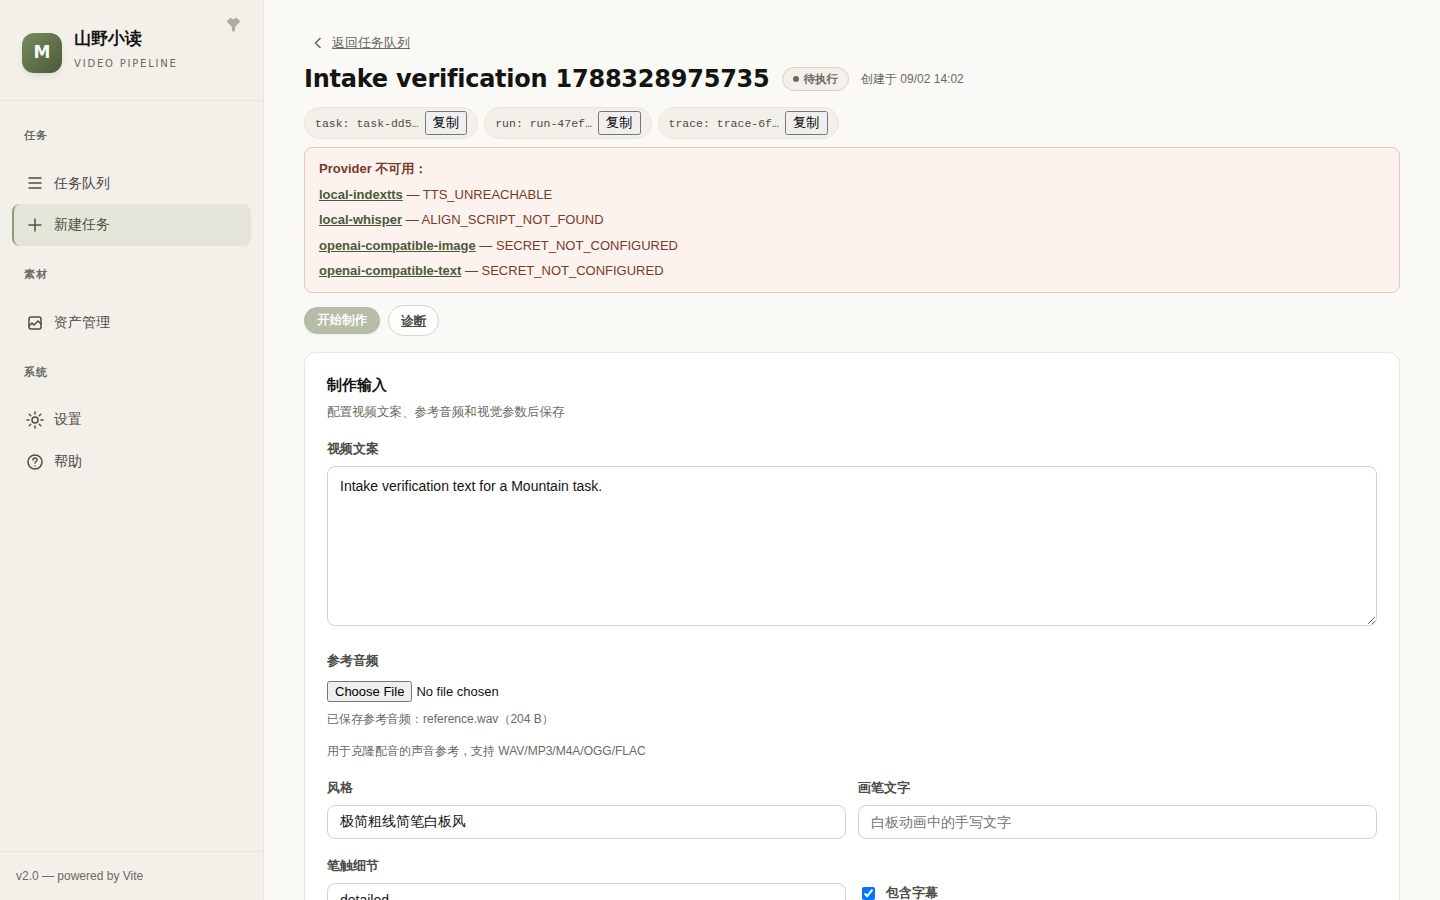
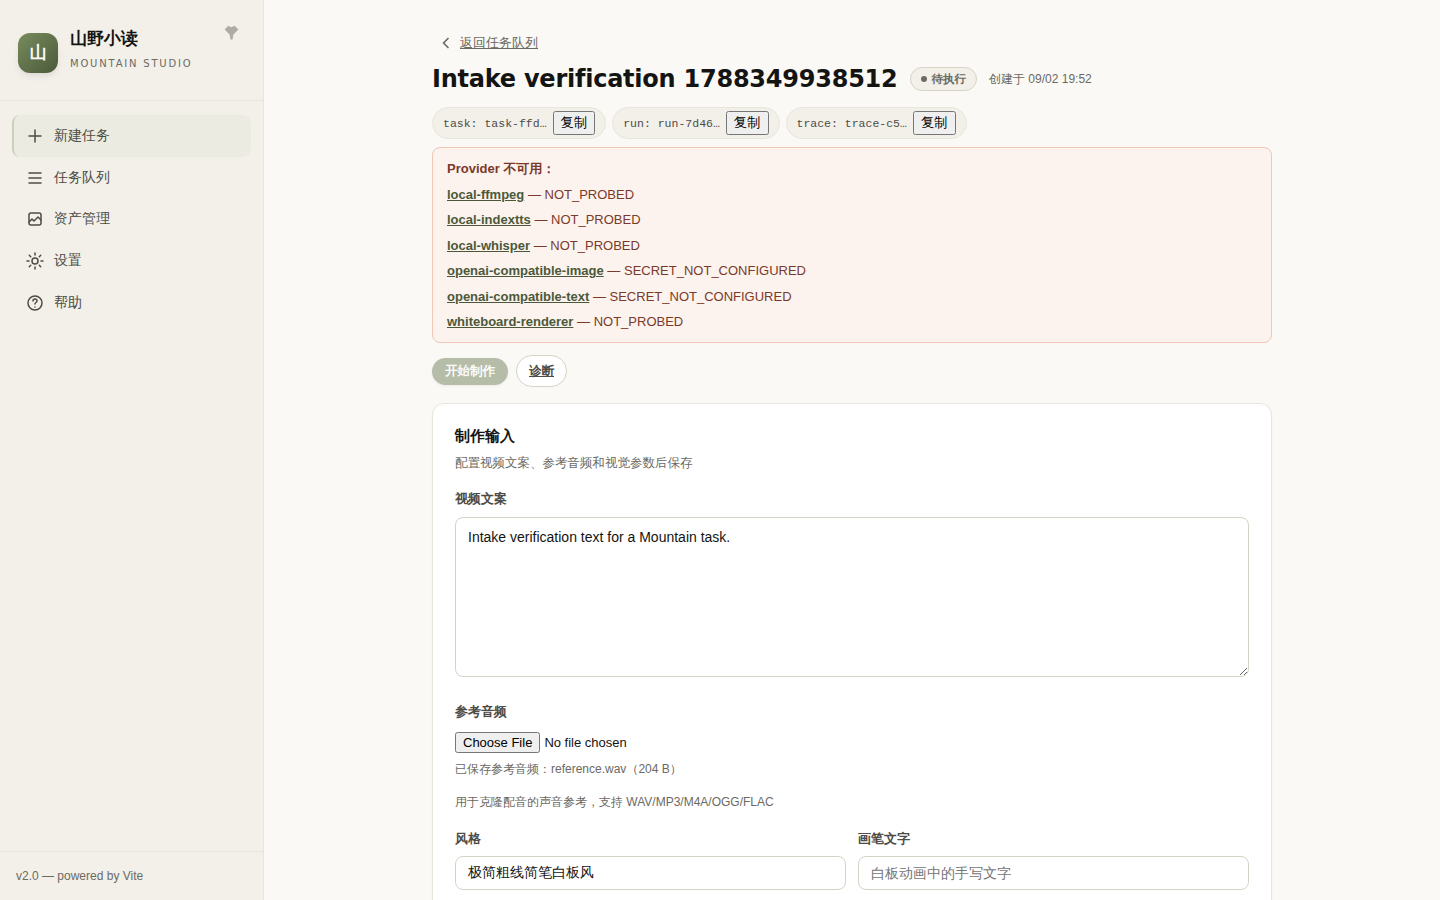
docs(web): deliver WEB-WO-003 browser evidence

diff --git a/docs/agents/reports/WEB-WO-003.md b/docs/agents/reports/WEB-WO-003.md
@@ -1,39 +1,50 @@
 # WEB-WO-003 Worker Report
 
 - Contract: `docs/agents/tasks/WEB-WO-003.md`
-- Coordination commit: `26d1c18f7db313b225331d84a7c2089fb65a3e4c`
-- Base: `9db741f`
-- Implementation commit: `efb656cdfa695af48ee2af7baa5a2f11bd6d79f4`
+- Coordination commit: `93b493836e897a14f0a13dd6848dfc4906086a85`
+- Base: `9db741fb5b230603b1cf340bc3e75b31bee31c4d`
+- Attempt 2 scope: repair and verify the real browser Task creation flow; no product-code change was required.
 - Branch: `feat/mountain-webui-surface-parity`
 
 ## Delivered
 
-The Task Workbench now consumes the persisted execution-plan DTO, submits `auto/selective` and canonical manual-stage selections with input saves, and exposes all six stages' read-only Work Order summaries through the real API adapter. The summary shows identity-level status, revision/fingerprint, next action, safe artifact summaries, expected outputs, and relative file references. It does not render command argv, prompts/scripts, secrets, absolute paths, or raw backend fields. No backend, import/accept semantics, or mock business data were changed.
+The existing Work Order surface remains unchanged and satisfies the approved API/DTO boundary. The real browser flow now has passing evidence when run with the required isolated setup: Vite uses the `/api/v1` proxy on backend port 8000, one Task is created, inputs are saved, and the Task Workbench restores the saved inputs. No mock business data, backend code, import/accept semantics, or orchestration was added.
 
-Files:
+Changed delivery files:
 
-- `web-v2/src/lib/api/client.ts`
-- `web-v2/src/lib/api/types.ts`
-- `web-v2/src/pages/TaskWorkbenchPage.tsx`
-- `web-v2/tests/work-order.test.tsx`
+- `docs/agents/reports/WEB-WO-003.md`
+- `docs/Mountain/webui-parity-evidence/tasks/intake-created.png`
+- `docs/Mountain/webui-parity-evidence/tasks/intake-queue.png`
+- `docs/Mountain/webui-parity-evidence/tasks/intake-workbench.png`
+- `docs/Mountain/webui-parity-evidence/tasks/intake-manifest.json`
 
 ## Gates
 
+Every required gate exited normally with status 0:
+
 | Command | Result |
 | --- | --- |
-| `npm --prefix web-v2 run build` | pass; TypeScript and Vite build |
+| `npm --prefix web-v2 run build` | pass; TypeScript and Vite build, 68 modules |
 | `npm --prefix web-v2 test -- --run` | pass; 17 files, 351 tests |
 | `npm --prefix web-v2 run test:contract-checker` | pass; 2 files, 50 tests |
-| `env -u CSBOARD_ALLOW_PLAINTEXT_SECRETS /mnt/d/workstation/projects/cs-board/.venv/bin/python scripts/smoke_real_backend_contract.py --port 8765` | exit 0; real backend, production checker, API smoke, process/temp cleanup passed |
+| `env -u CSBOARD_ALLOW_PLAINTEXT_SECRETS /mnt/d/workstation/projects/cs-board/.venv/bin/python scripts/smoke_real_backend_contract.py --port 8765` | pass; encrypted real backend, production checker, API smoke, process/temp cleanup |
 | `npm --prefix web-v2 test -- --run tests/work-order.test.tsx` | pass; 2 tests |
-| `if rg -n 'Project|project_id|/projects' web-v2/src web-v2/scripts; then exit 1; else echo 'forbidden-pattern scan: no matches'; fi` | exit 0; no matches |
+| `if rg -n 'Project|project_id|/projects' web-v2/src web-v2/scripts; then exit 1; else echo 'forbidden-pattern scan: no matches'; fi` | pass; no matches |
 | `git diff --check` | pass |
+| `PLAYWRIGHT_CHROMIUM_EXECUTABLE=/home/ubuntu/.cache/ms-playwright/chromium-1187/chrome-linux/chrome WEBUI_BASE=http://127.0.0.1:5275 MOUNTAIN_API_BASE=http://127.0.0.1:8000 node web-v2/scripts/verify-task-intake-e2e.mjs` | pass; one Task, input readback and Workbench restoration passed, zero browser issues |
 
-The real checker used a temporary backend data directory and port 8765; the backend was stopped after the gate. An isolated browser attempt using `web-v2/scripts/verify-task-intake-e2e.mjs` exited 1 because its existing response waiter timed out after the POST `/tasks` request (`Failed to fetch` alert); no browser pass is claimed from that attempt. No dashboard/teamctl command was run.
+The browser gate used isolated temporary backend data, `VITE_API_BASE_URL=/api/v1`, Vite `127.0.0.1:5275`, and backend `127.0.0.1:8000`; both exact PIDs were stopped afterward. No `/start`, `/pipeline/`, or stage run/retry request occurred.
 
-## Evidence and state
+## Evidence
 
-- Work Order API path: `GET /tasks/{task_id}/runs/{run_id}/work-orders/{stage}`.
-- Focused tests prove stage-specific fetch, safe rendering, and canonical manual-stage serialization.
-- Worktree had no tracked changes before this report update. The smoke gate cleaned its temporary backend directory; the failed browser attempt left only ignored `.e2e-runtime/reference.wav`. The supervised runtime's untracked `.agents/coordination/runtime/WEB.json` is preserved and excluded from delivery.
-- This report update is the delivery commit for the verified branch state; push and PM notification follow it.
[6 lines of base64/hex data omitted]
+- Browser console error/warning, pageerror, failed request, and HTTP ≥400 counts: 0.
+
+## State
+
+The worktree is clean of tracked changes after delivery commit and the pushed branch matches the delivery commit. The supervised runtime's untracked `.agents/coordination/runtime/WEB.json` is preserved and excluded from delivery. No dashboard or teamctl command was run.
